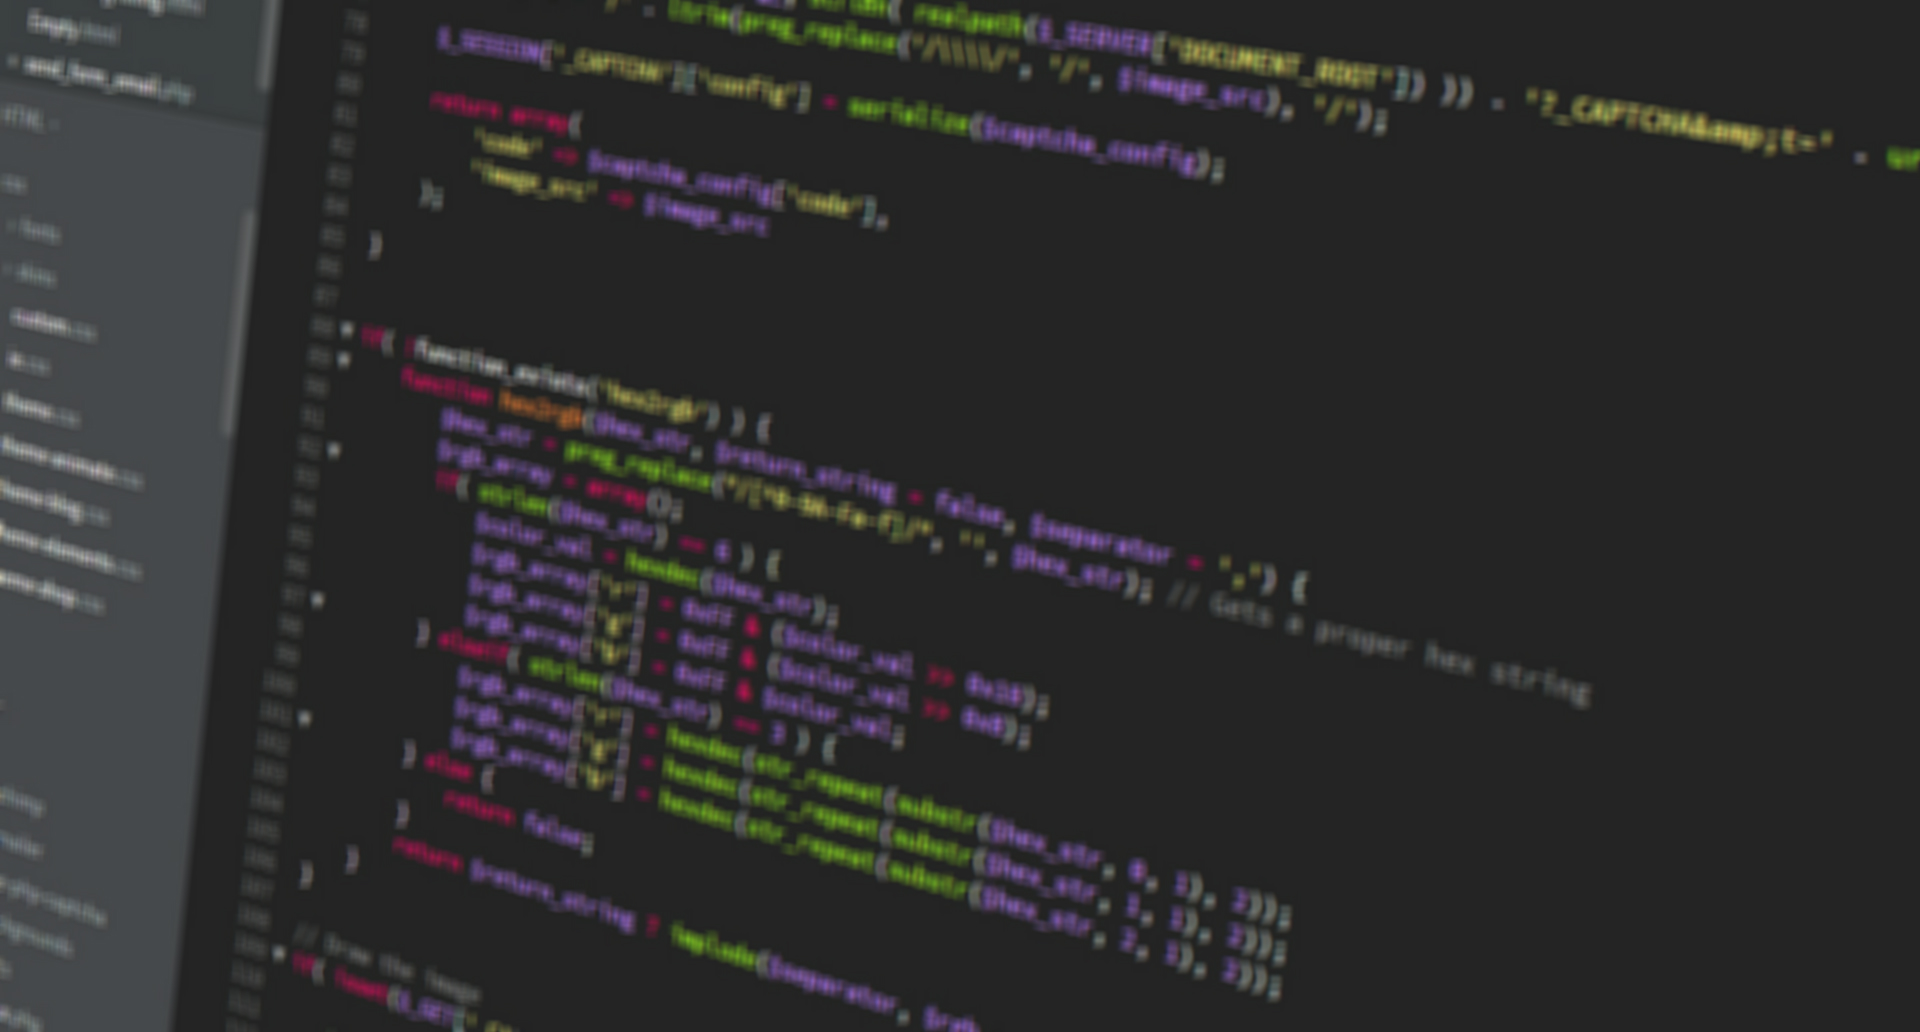
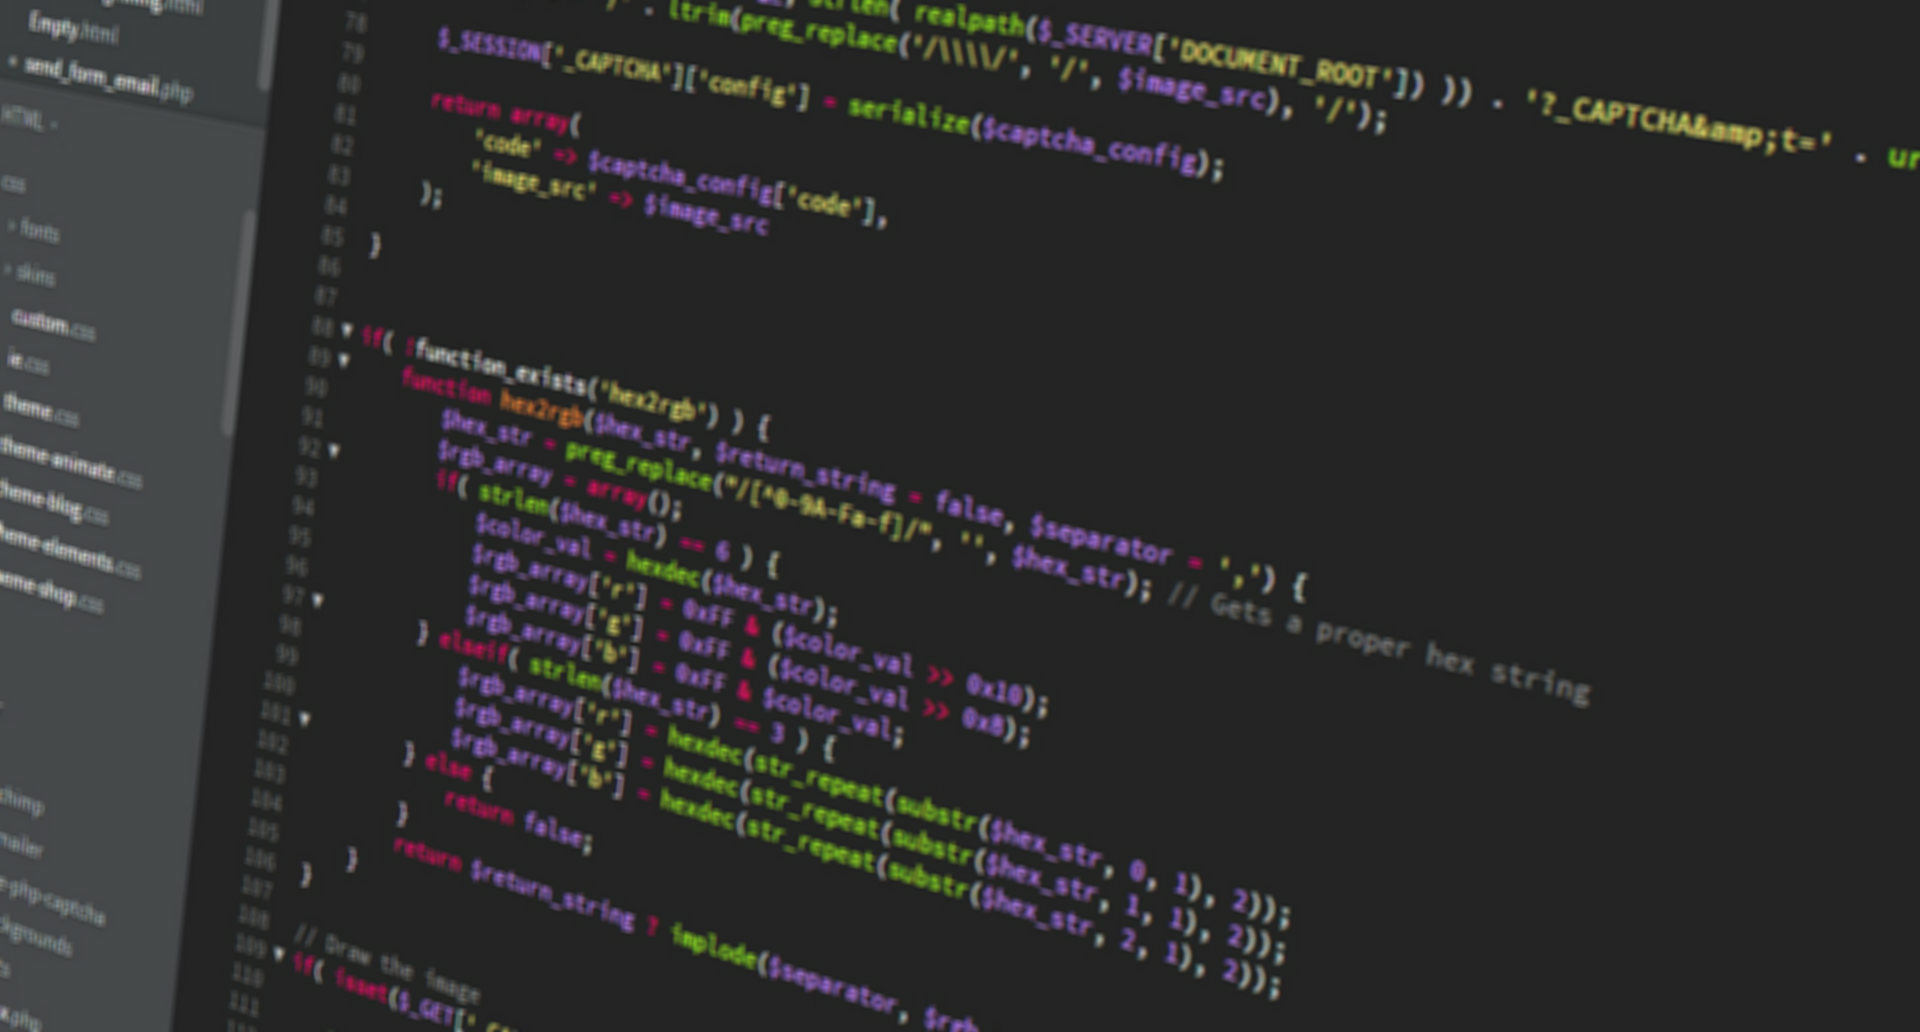
Made code-blur image a little less blur & fixed background-size property of header image.

diff --git a/css/custom.css b/css/custom.css
@@ -14,8 +14,6 @@ header .content img {
 }
 .header-img {
     position: absolute;
-    -webkit-background-size: cover;
-    background-size: cover;
     top: 0;
     bottom: 0;
     left: 0;
@@ -99,9 +97,13 @@ footer {
 @media (max-width: 992px) {
     .img-clear {
         background: url(../images/background-sm.jpg) no-repeat center center fixed;
+        -webkit-background-size: cover;
+        background-size: cover;
     }
     .non-blur-img {
-        background: url(../images/background-blur-sm.jpg) no-repeat center center fixed;;
+        background: url(../images/background-blur-sm.jpg) no-repeat center center fixed;
+        -webkit-background-size: cover;
+        background-size: cover;
     }
     .project-item-image {
         border-bottom: 1px solid #eee;
@@ -110,9 +112,13 @@ footer {
 @media (min-width: 992px) {
     .img-clear {
         background: url(../images/background.jpg) no-repeat center center fixed;
+        -webkit-background-size: cover;
+        background-size: cover;
     }
     .non-blur-img {
         background: url(../images/background-blur.jpg) no-repeat center center fixed;
+        -webkit-background-size: cover;
+        background-size: cover;
     }
     .project-item {
         border: 2px solid #eee;
